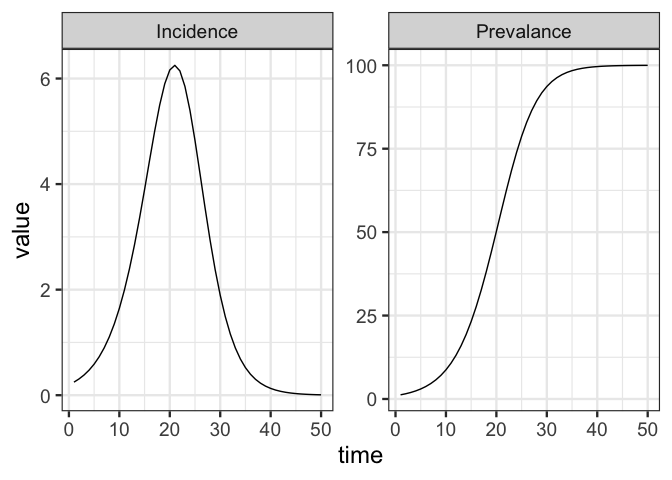
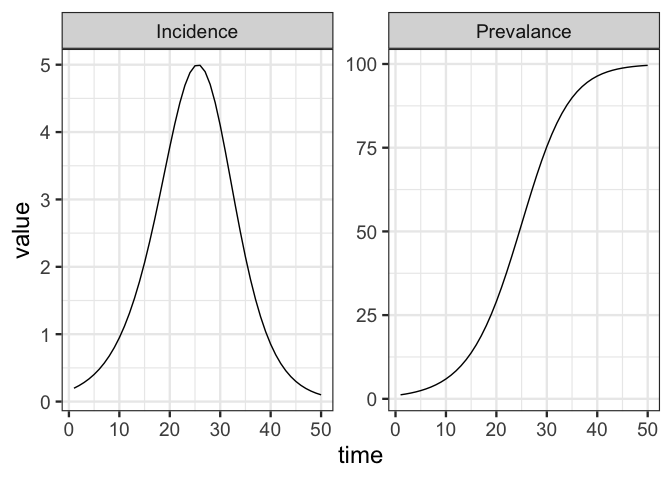
per-capita flow parameterization change

diff --git a/README.md b/README.md
@@ -93,16 +93,9 @@ simplest possible model of epidemiological transmission.
 ``` r
 library(macpan2)
 si = mp_tmb_model_spec(
-    before = list(
-        I ~ 1
-      , S ~ N - I
-    )
-  , during = list(
-        infection ~ beta * S * I / N
-      , S ~ S - infection
-      , I ~ I + infection
-    )
-  , default = list(N = 100, beta = 0.25)
+    before = S ~ N - I
+  , during = mp_per_capita_flow("S", "I", "beta * I / N", "infection")
+  , default = list(N = 100, I = 1, beta = 0.2)
 )
 print(si)
 ```
@@ -110,22 +103,21 @@ print(si)
     ## ---------------------
     ## Default values:
     ## ---------------------
-    ##  matrix row col  value
-    ##       N         100.00
-    ##    beta           0.25
+    ##  matrix row col value
+    ##       N         100.0
+    ##       I           1.0
+    ##    beta           0.2
     ## 
     ## ---------------------
     ## Before the simulation loop (t = 0):
     ## ---------------------
-    ## 1: I ~ 1
-    ## 2: S ~ N - I
+    ## 1: S ~ N - I
     ## 
     ## ---------------------
     ## At every iteration of the simulation loop (t = 1 to T):
     ## ---------------------
-    ## 1: infection ~ beta * S * I/N
-    ## 2: S ~ S - infection
-    ## 3: I ~ I + infection
+    ## 1: mp_per_capita_flow(from = "S", to = "I", rate = "beta * I / N", 
+    ##      abs_rate = "infection")
 
 Simulating from this model requires choosing the number of time-steps to
 run and the model outputs to generate. Syntax for simulating `macpan2`
